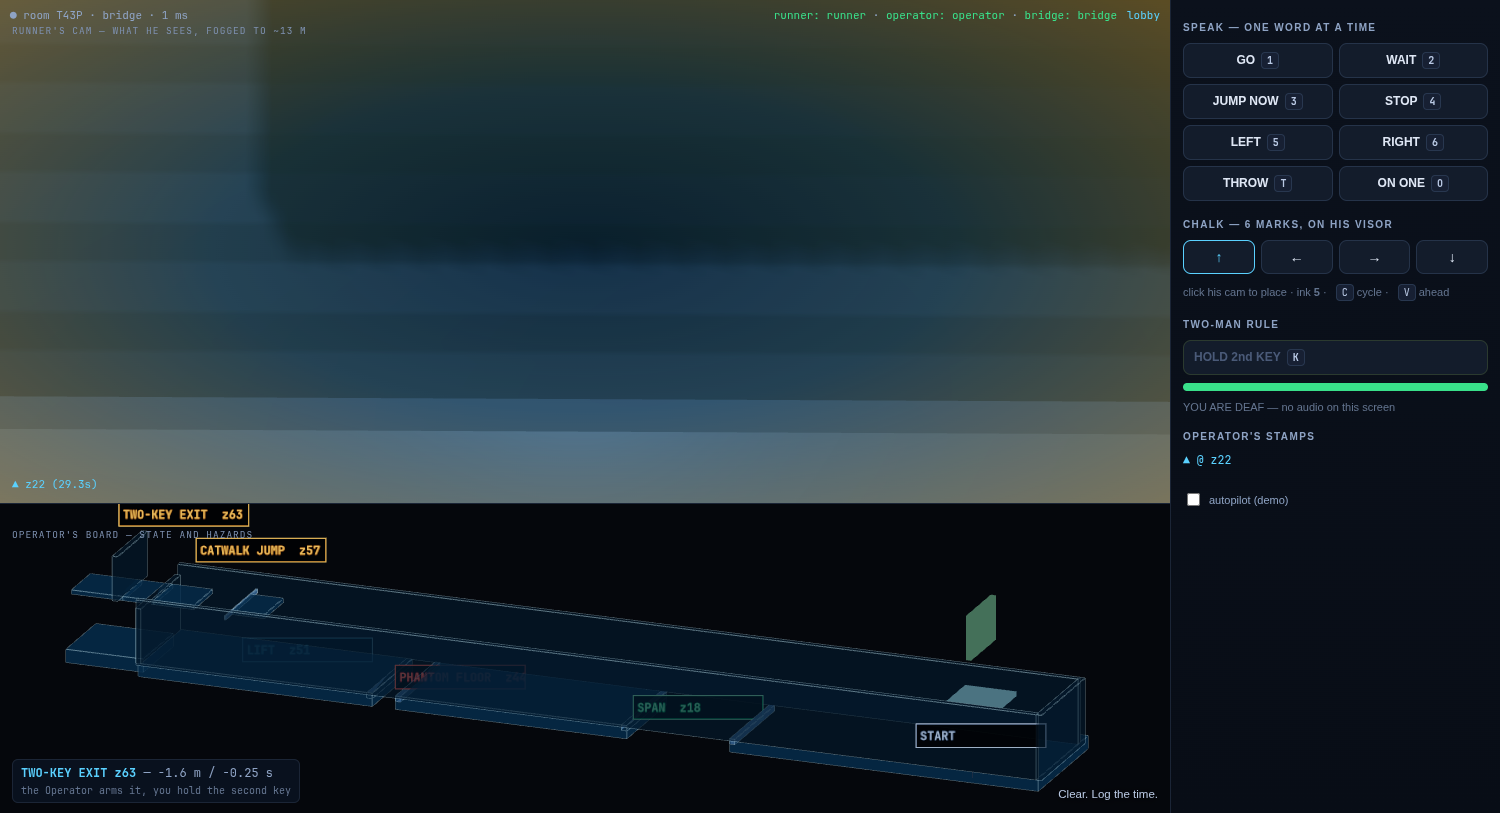
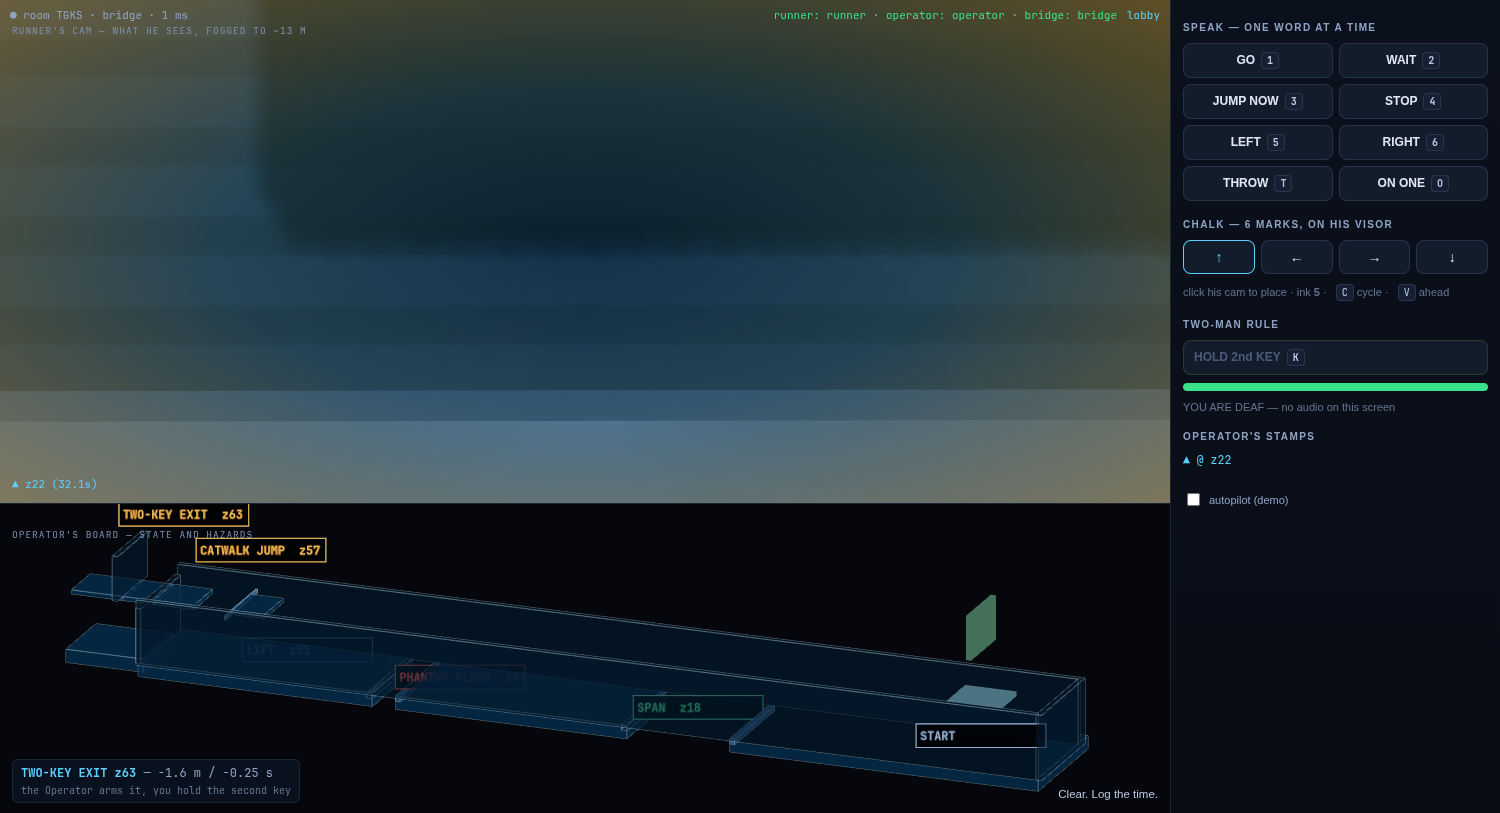
Fix inverted strafe (A/D) and mouse look controls

Changed region(s): [[0.0, 0.4613, 0.7973, 0.5535]]

diff --git a/game/shared/sim3d.js b/game/shared/sim3d.js
@@ -285,8 +285,10 @@ export function step(s, dt, input) {
       st /= len;
     }
     const yaw = s.input.yaw || 0;
-    const dirX = Math.sin(yaw) * f + Math.cos(yaw) * st;
-    const dirZ = Math.cos(yaw) * f - Math.sin(yaw) * st;
+    // camera forward is (sin yaw, 0, cos yaw) and camera right is
+    // (-cos yaw, 0, sin yaw): 'D' (st = +1) must move to screen-right (-X)
+    const dirX = Math.sin(yaw) * f - Math.cos(yaw) * st;
+    const dirZ = Math.cos(yaw) * f + Math.sin(yaw) * st;
     const moving = Math.abs(f) + Math.abs(st) > 0.01;
     if (moving) {
       r.vx += dirX * TUNING.accel * dt;

diff --git a/game/public/js/main.js b/game/public/js/main.js
@@ -143,7 +143,7 @@ function bindInput() {
   addEventListener('mousemove', (e) => {
     if (ROLE !== 'runner') return;
     if (document.pointerLockElement !== canvas) return;
-    input.yaw += e.movementX * 0.0022;
+    input.yaw -= e.movementX * 0.0022; // mouse right turns the view right (-X)
     pitch = Math.max(-1.0, Math.min(0.9, pitch - e.movementY * 0.0022));
   });
 }

diff --git a/README.md b/README.md
@@ -21,7 +21,7 @@ that is ~2 seconds of runway. **Comms is read-ahead, not reaction.**
 | [`docs/design-pitch.md`](docs/design-pitch.md) | Full design: role triangle, comms topology, obstacle grammar, risks, and a worked level with **measured** beat windows |
 | [`game/`](game/README.md) | **3D LAN build** — three.js, server-authoritative, played by three laptops on one network. `node game/server.js` |
 | [`prototype/`](prototype/README.md) | **2D prototype** — the same idea in one browser window, three panels, zero setup |
-| [`test/`](test/run.sh) | `./test/run.sh` runs everything: 15 + 14 checks against browser windows, 23 checks over real WebSockets, and two headless tuning harnesses that print the level's beat windows |
+| [`test/`](test/run.sh) | `./test/run.sh` runs everything: 15 + 14 checks against browser windows, 24 checks over real WebSockets, and two headless tuning harnesses that print the level's beat windows |
 | `shots/` | Screenshots of the three private screens, 2D and 3D |
 
 ## Play it
@@ -70,7 +70,7 @@ The asymmetry is enforced in the client, not just the fiction:
 
 Two playable builds of the same design: a 2D hot-seat prototype and a 3D LAN game that runs
 across three laptops with a server-authoritative simulation. One level, forced comms, measured
-tuning, 52 automated checks.
+tuning, 53 automated checks.
 
 Honest gaps: no networked voice chat (a phrase wheel and local TTS stand in for speech), one
 level, no enemies, no role rotation, no art beyond flat-shaded industrial. The 3D build's

diff --git a/game/README.md b/game/README.md
@@ -92,7 +92,7 @@ because it is vendored; upgrading is a one-file swap.
 
 ```bash
 node ../test/tune3d.mjs     # headless: beat windows, lift, two-key rule, full autopilot run
-node ../test/lan3d.mjs      # three real browser tabs over WebSocket: 23 checks
+node ../test/lan3d.mjs      # three real browser tabs over WebSocket: 24 checks
 ./../test/run.sh            # everything, 2D and 3D
 ```
 
